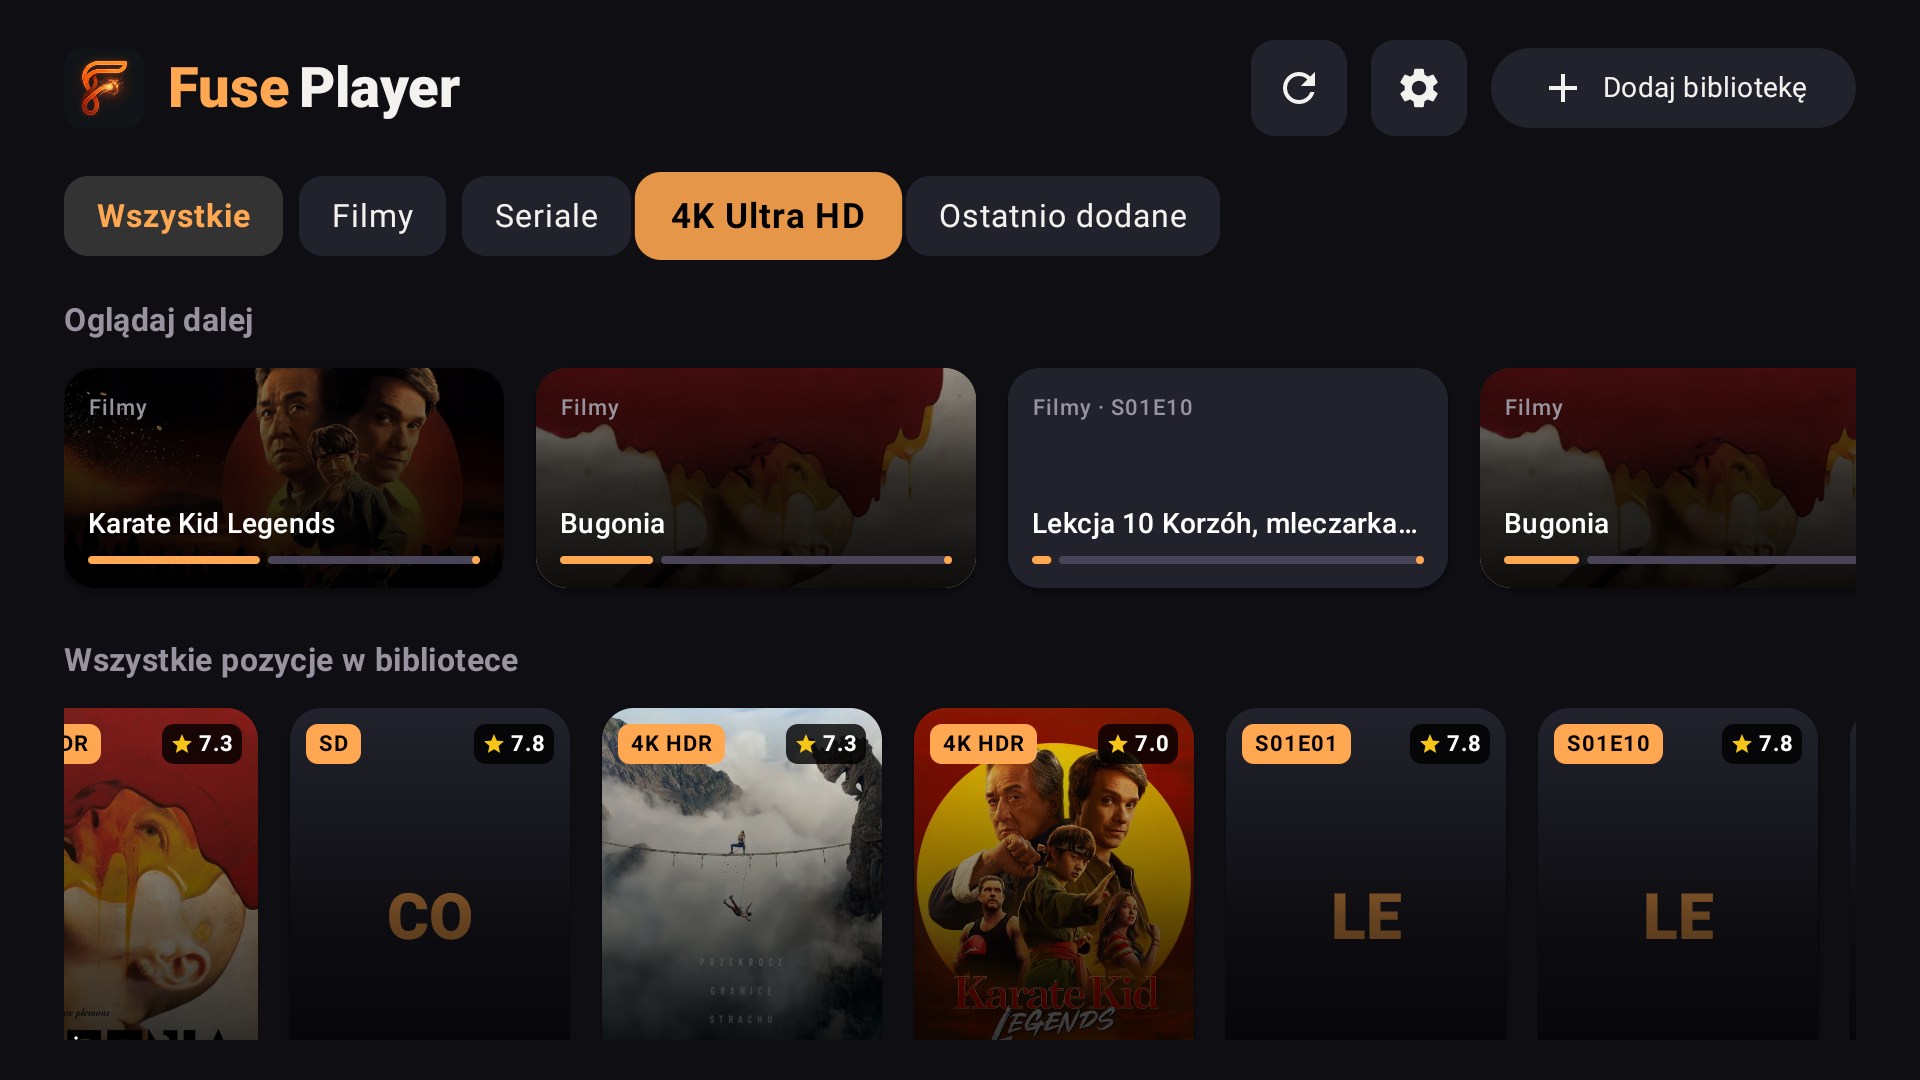
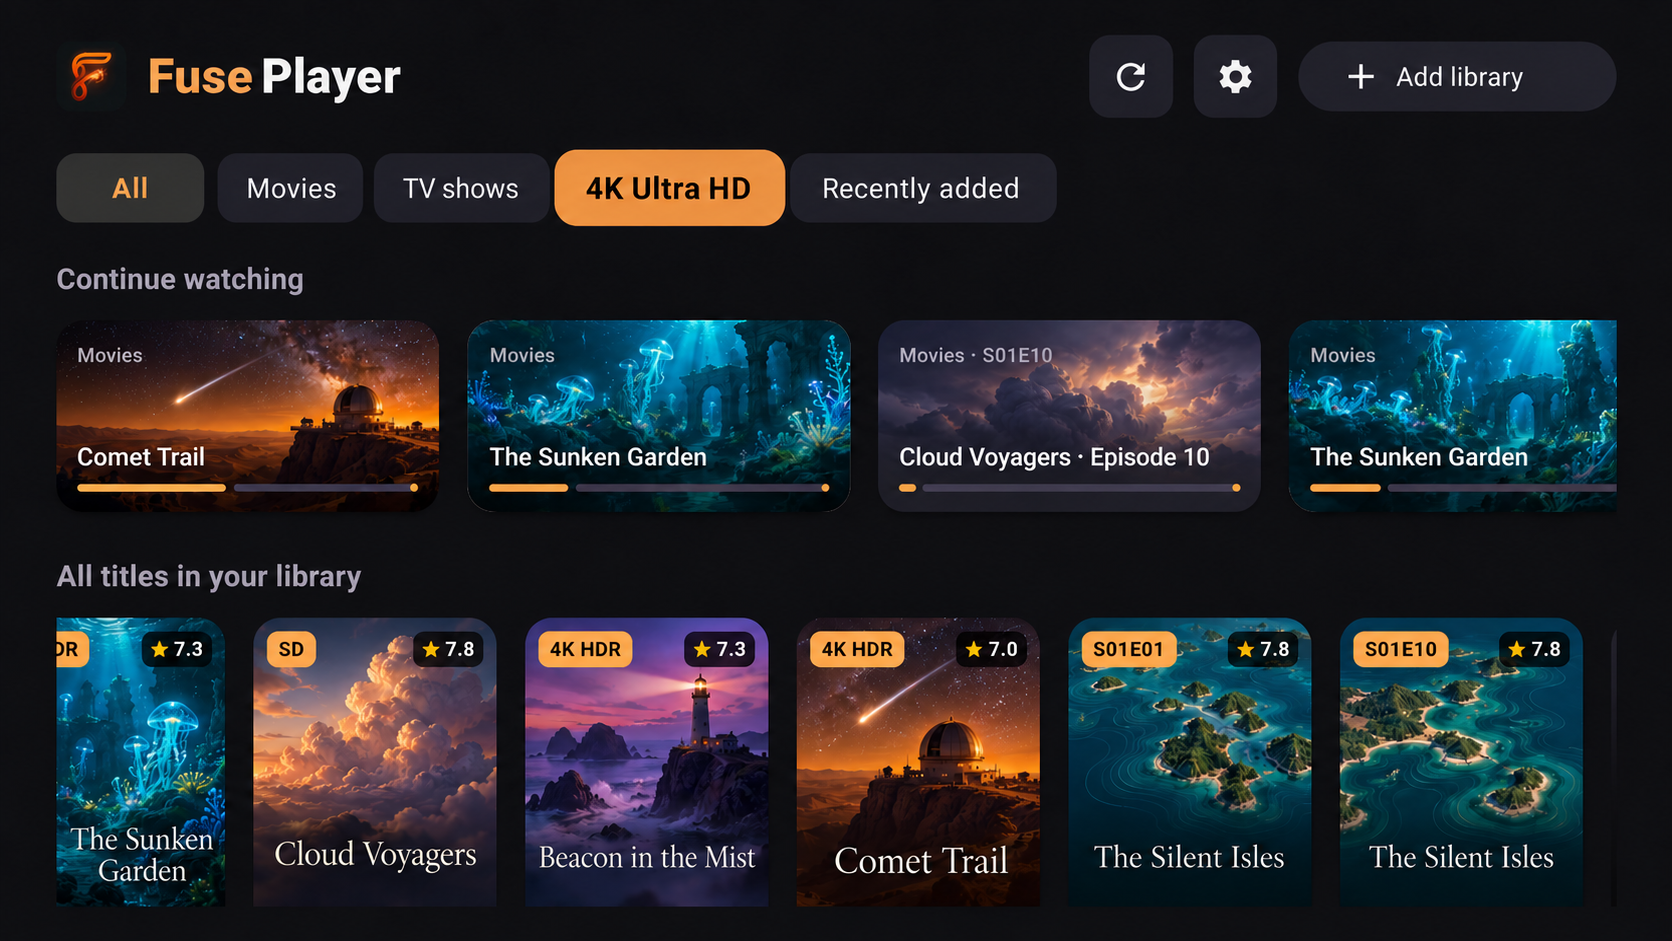
Use original fictional demo films in English marketing preview

diff --git a/index.html b/index.html
@@ -1,3 +1,3 @@
 <!doctype html>
-<html lang="en"><head><meta charset="utf-8"><meta name="viewport" content="width=device-width,initial-scale=1"><meta name="description" content="FusePlayer is a video player for Android TV, Google TV, phones and tablets. Play local videos and access your FTP and SMB sources."><meta name="theme-color" content="#0e0e12"><title>Your films. Your screen. | FusePlayer</title><style>:root{color-scheme:dark;--bg:#0e0e12;--panel:#22222c;--text:#f3f5fa;--muted:#a6a3af;--accent:#ffa64b}*{box-sizing:border-box}html{scroll-behavior:smooth}body{margin:0;background:var(--bg);color:var(--text);font:17px/1.7 system-ui,-apple-system,Segoe UI,sans-serif}a{color:inherit;text-underline-offset:5px}a:focus-visible,summary:focus-visible{outline:3px solid var(--accent);outline-offset:6px}.wrap{max-width:1180px;margin:auto;padding:0 32px}header{border-bottom:1px solid #ffffff12}nav{min-height:96px;display:flex;align-items:center;justify-content:space-between;gap:24px}.brand{text-decoration:none;font-size:23px;font-weight:750;letter-spacing:-1px}.brand b{display:inline-grid;place-items:center;background:var(--accent);color:#17110b;border-radius:11px;width:38px;height:38px;margin-right:10px;font-size:19px}nav .links{display:flex;gap:28px;font-size:14px;color:var(--muted)}nav .links a{text-decoration:none}nav a:hover{color:var(--accent)}.eyebrow{text-transform:uppercase;letter-spacing:3px;font-size:12px;font-weight:700;color:var(--accent)}h1,h2,h3{line-height:1.1;letter-spacing:-.045em}h1{font-size:clamp(48px,6.2vw,82px);margin:22px 0 28px;font-weight:700}h2{font-size:clamp(32px,4vw,48px);margin:16px 0 24px}h3{font-size:23px;margin:18px 0}p{color:var(--muted)}.hero{padding:90px 0 80px;display:grid;grid-template-columns:1.05fr 1fr;gap:60px;align-items:center}.hero p{max-width:510px;font-size:19px}.accent{color:var(--accent)}.button{display:inline-block;padding:14px 23px;border-radius:8px;background:var(--accent);color:#17110b;text-decoration:none;font-size:15px;font-weight:700;margin:18px 12px 0 0}.button.secondary{background:transparent;color:var(--text);border:1px solid #ffffff35}.platforms{font-size:12px!important;letter-spacing:1px;margin-top:25px}.visual{position:relative;padding:30px 0}.screen{padding:26px;border:1px solid #536071;border-radius:18px;background:radial-gradient(ellipse at 75% 10%,#314344 0%,#161e2c 40%,#10151e 80%);box-shadow:0 35px 100px #0008;aspect-ratio:1.45}.screen-top{display:flex;justify-content:space-between;font-size:10px;letter-spacing:1.5px;color:#b7c6c6}.landscape{height:135px;margin:24px 0 18px;border-radius:9px;background:linear-gradient(160deg,transparent 45%,#1c393e 45%,#1c393e 58%,#112a32 58%),radial-gradient(circle at 75% 30%,#d3d6a7 0%,#d3d6a7 5%,transparent 5.5%),linear-gradient(145deg,#648581,#233f51);display:flex;align-items:end;padding:18px}.landscape strong{font-size:22px;line-height:1.1;letter-spacing:-1px}.source-row{display:grid;grid-template-columns:repeat(3,1fr);gap:8px}.source-row span{border:1px solid #ffffff18;border-radius:6px;padding:10px 4px;text-align:center;font-size:10px;color:#d2dddf}.play{width:44px;height:44px;border-radius:50%;background:var(--accent);color:#14200c;display:grid;place-items:center;margin-left:auto}.caption{text-align:center;font-size:11px;letter-spacing:1px;color:var(--muted);margin-top:22px}.strip{border-top:1px solid #ffffff15;border-bottom:1px solid #ffffff15;padding:25px 0;display:flex;justify-content:space-between;gap:15px;color:var(--muted);font-size:13px}.strip b{color:var(--text);font-weight:500}.section{padding:78px 0}.intro{max-width:660px}.cards{display:grid;grid-template-columns:repeat(3,1fr);gap:20px;margin-top:36px}.card{padding:30px;background:var(--panel);border:1px solid #ffffff0e;border-radius:12px}.number{color:var(--accent);font-size:13px;letter-spacing:2px}.card p{font-size:15px;margin-bottom:0}.callout{padding:44px;border:1px solid #ffffff20;border-radius:14px;background:linear-gradient(110deg,#2b211b,#19191f);display:flex;justify-content:space-between;align-items:center;gap:30px}.callout h2{margin:0;font-size:34px}.callout p{margin-bottom:0}footer{margin-top:40px;padding:32px 0;border-top:1px solid #ffffff12;color:var(--muted);font-size:13px}.footer-row{display:flex;justify-content:space-between;gap:20px}.footer-row a{margin-left:20px}.document{max-width:800px;padding:70px 0}.document h1{font-size:clamp(42px,6vw,64px)}.document h2{font-size:28px;margin-top:42px}.document li{color:var(--muted);margin-bottom:10px}.notice{border-left:3px solid var(--accent);background:var(--panel);padding:22px 26px;margin:30px 0}.notice p{margin:0}.email{font-size:clamp(20px,4vw,32px);color:var(--accent);overflow-wrap:anywhere}details{padding:22px 0;border-bottom:1px solid #ffffff20}summary{font-weight:600;cursor:pointer}details p{font-size:16px}.skip{position:absolute;left:-9999px}.skip:focus{left:20px;top:10px;background:var(--accent);color:#000;padding:8px;z-index:10}@media(max-width:800px){.hero{grid-template-columns:1fr;padding:56px 0;gap:22px}.hero p{font-size:17px}.visual{max-width:520px;width:100%;margin:auto}.cards{grid-template-columns:1fr}.strip{flex-wrap:wrap}.callout{display:block;padding:28px}.section{padding:50px 0}.wrap{padding:0 22px}nav{min-height:80px;gap:14px}.brand{font-size:19px}nav .links{gap:16px;font-size:12px}.brand b{width:30px;height:30px;margin-right:6px}.footer-row{flex-direction:column}.footer-row a{margin:0 20px 0 0}.document{padding:45px 0}}@media(prefers-reduced-motion:reduce){html{scroll-behavior:auto}}.brand{display:flex;align-items:center;gap:12px}.brand img{border-radius:11px}.brand em{font-style:normal;color:var(--accent)}.app-preview{display:block;width:100%;height:auto;border-radius:12px;border:1px solid #ffffff20;box-shadow:0 24px 90px #0009}.visual{padding:18px 0}.hero{grid-template-columns:.85fr 1.2fr;gap:44px}.caption{font-size:11px}@media(max-width:800px){.hero{grid-template-columns:1fr}.brand{gap:7px}.brand img{width:32px;height:32px}.visual{max-width:650px}}@media(min-width:1100px){.hero h1{font-size:72px}}</style></head><body><a class="skip" href="#main">Skip to content</a><header><nav class="wrap" aria-label="Main navigation"><a class="brand" href="./"><img src="fuse-player-icon.png" alt="" width="42" height="42"><span><em>Fuse</em> Player</span></a><div class="links"><a href="./#features">Features</a><a href="support.html">Support</a><a href="privacy.html">Privacy</a></div></nav></header><main id="main" class="wrap"><section class="hero"><div><span class="eyebrow">Your media. Centre stage.</span><h1>Big screen.<br>Your films.<br><span class="accent">Fuse</span> Player.</h1><p>A home for your own videos. Made for Android TV and Google TV, with playback on your Android phone and tablet, too.</p><a class="button" href="#features">Explore FusePlayer ↗</a><a class="button secondary" href="support.html">Get support</a><p class="platforms">ANDROID TV / GOOGLE TV / PHONE / TABLET</p></div><div class="visual"><a href="fuse-player-tv.png" aria-label="View full-size Fuse Player screenshot"><img class="app-preview" src="fuse-player-tv.png" alt="Fuse Player on Android TV: dark media library with orange highlights, continue watching and video posters" width="1920" height="1080" fetchpriority="high"></a><div class="caption">FUSE PLAYER ON ANDROID TV · ACTUAL APP SCREENSHOT</div></div></section><div class="strip"><span><b>TV first.</b> Made for your living room.</span><span><b>Your sources.</b> Local files, FTP &amp; SMB.</span><span><b>More screens.</b> Android phones &amp; tablets.</span></div><section class="section" id="features"><div class="intro"><span class="eyebrow">One player. Your collection.</span><h2>Bring your videos<br>to the screen that matters.</h2><p>From files on your device to your network media collection, FusePlayer puts your own content at the heart of playback.</p></div><div class="cards"><article class="card"><span class="number">01 / THE LIVING ROOM</span><h3>Android TV &amp; Google TV</h3><p>Settle in and enjoy your videos on the big screen. Television is at the centre of the FusePlayer experience.</p></article><article class="card"><span class="number">02 / YOUR SOURCES</span><h3>Local. FTP. SMB.</h3><p>Play local video files or access media from your configured FTP servers and SMB network shares.</p></article><article class="card"><span class="number">03 / BEYOND THE TV</span><h3>Phone &amp; tablet, too.</h3><p>Use FusePlayer on Android phones and tablets when a smaller screen fits the moment.</p></article></div></section><section class="callout"><div><span class="eyebrow">Here to help</span><h2>Let’s keep your films playing.</h2><p>Questions, playback issues or feedback? Contact FrostCode.</p></div><a class="button" href="support.html">Visit support ↗</a></section><section class="section intro"><span class="eyebrow">About FusePlayer</span><p>FusePlayer is a media player by FrostCode. You provide the videos and network sources you want to play. For information about saved credentials and external integrations, see our <a href="privacy.html">privacy information and policy review status</a>.</p></section></main><footer><div class="wrap footer-row"><span>© 2026 FrostCode · FusePlayer</span><span><a href="support.html">Support</a><a href="privacy.html">Privacy information</a></span></div></footer></body></html>
+<html lang="en"><head><meta charset="utf-8"><meta name="viewport" content="width=device-width,initial-scale=1"><meta name="description" content="FusePlayer is a video player for Android TV, Google TV, phones and tablets. Play local videos and access your FTP and SMB sources."><meta name="theme-color" content="#0e0e12"><title>Your films. Your screen. | FusePlayer</title><style>:root{color-scheme:dark;--bg:#0e0e12;--panel:#22222c;--text:#f3f5fa;--muted:#a6a3af;--accent:#ffa64b}*{box-sizing:border-box}html{scroll-behavior:smooth}body{margin:0;background:var(--bg);color:var(--text);font:17px/1.7 system-ui,-apple-system,Segoe UI,sans-serif}a{color:inherit;text-underline-offset:5px}a:focus-visible,summary:focus-visible{outline:3px solid var(--accent);outline-offset:6px}.wrap{max-width:1180px;margin:auto;padding:0 32px}header{border-bottom:1px solid #ffffff12}nav{min-height:96px;display:flex;align-items:center;justify-content:space-between;gap:24px}.brand{text-decoration:none;font-size:23px;font-weight:750;letter-spacing:-1px}.brand b{display:inline-grid;place-items:center;background:var(--accent);color:#17110b;border-radius:11px;width:38px;height:38px;margin-right:10px;font-size:19px}nav .links{display:flex;gap:28px;font-size:14px;color:var(--muted)}nav .links a{text-decoration:none}nav a:hover{color:var(--accent)}.eyebrow{text-transform:uppercase;letter-spacing:3px;font-size:12px;font-weight:700;color:var(--accent)}h1,h2,h3{line-height:1.1;letter-spacing:-.045em}h1{font-size:clamp(48px,6.2vw,82px);margin:22px 0 28px;font-weight:700}h2{font-size:clamp(32px,4vw,48px);margin:16px 0 24px}h3{font-size:23px;margin:18px 0}p{color:var(--muted)}.hero{padding:90px 0 80px;display:grid;grid-template-columns:1.05fr 1fr;gap:60px;align-items:center}.hero p{max-width:510px;font-size:19px}.accent{color:var(--accent)}.button{display:inline-block;padding:14px 23px;border-radius:8px;background:var(--accent);color:#17110b;text-decoration:none;font-size:15px;font-weight:700;margin:18px 12px 0 0}.button.secondary{background:transparent;color:var(--text);border:1px solid #ffffff35}.platforms{font-size:12px!important;letter-spacing:1px;margin-top:25px}.visual{position:relative;padding:30px 0}.screen{padding:26px;border:1px solid #536071;border-radius:18px;background:radial-gradient(ellipse at 75% 10%,#314344 0%,#161e2c 40%,#10151e 80%);box-shadow:0 35px 100px #0008;aspect-ratio:1.45}.screen-top{display:flex;justify-content:space-between;font-size:10px;letter-spacing:1.5px;color:#b7c6c6}.landscape{height:135px;margin:24px 0 18px;border-radius:9px;background:linear-gradient(160deg,transparent 45%,#1c393e 45%,#1c393e 58%,#112a32 58%),radial-gradient(circle at 75% 30%,#d3d6a7 0%,#d3d6a7 5%,transparent 5.5%),linear-gradient(145deg,#648581,#233f51);display:flex;align-items:end;padding:18px}.landscape strong{font-size:22px;line-height:1.1;letter-spacing:-1px}.source-row{display:grid;grid-template-columns:repeat(3,1fr);gap:8px}.source-row span{border:1px solid #ffffff18;border-radius:6px;padding:10px 4px;text-align:center;font-size:10px;color:#d2dddf}.play{width:44px;height:44px;border-radius:50%;background:var(--accent);color:#14200c;display:grid;place-items:center;margin-left:auto}.caption{text-align:center;font-size:11px;letter-spacing:1px;color:var(--muted);margin-top:22px}.strip{border-top:1px solid #ffffff15;border-bottom:1px solid #ffffff15;padding:25px 0;display:flex;justify-content:space-between;gap:15px;color:var(--muted);font-size:13px}.strip b{color:var(--text);font-weight:500}.section{padding:78px 0}.intro{max-width:660px}.cards{display:grid;grid-template-columns:repeat(3,1fr);gap:20px;margin-top:36px}.card{padding:30px;background:var(--panel);border:1px solid #ffffff0e;border-radius:12px}.number{color:var(--accent);font-size:13px;letter-spacing:2px}.card p{font-size:15px;margin-bottom:0}.callout{padding:44px;border:1px solid #ffffff20;border-radius:14px;background:linear-gradient(110deg,#2b211b,#19191f);display:flex;justify-content:space-between;align-items:center;gap:30px}.callout h2{margin:0;font-size:34px}.callout p{margin-bottom:0}footer{margin-top:40px;padding:32px 0;border-top:1px solid #ffffff12;color:var(--muted);font-size:13px}.footer-row{display:flex;justify-content:space-between;gap:20px}.footer-row a{margin-left:20px}.document{max-width:800px;padding:70px 0}.document h1{font-size:clamp(42px,6vw,64px)}.document h2{font-size:28px;margin-top:42px}.document li{color:var(--muted);margin-bottom:10px}.notice{border-left:3px solid var(--accent);background:var(--panel);padding:22px 26px;margin:30px 0}.notice p{margin:0}.email{font-size:clamp(20px,4vw,32px);color:var(--accent);overflow-wrap:anywhere}details{padding:22px 0;border-bottom:1px solid #ffffff20}summary{font-weight:600;cursor:pointer}details p{font-size:16px}.skip{position:absolute;left:-9999px}.skip:focus{left:20px;top:10px;background:var(--accent);color:#000;padding:8px;z-index:10}@media(max-width:800px){.hero{grid-template-columns:1fr;padding:56px 0;gap:22px}.hero p{font-size:17px}.visual{max-width:520px;width:100%;margin:auto}.cards{grid-template-columns:1fr}.strip{flex-wrap:wrap}.callout{display:block;padding:28px}.section{padding:50px 0}.wrap{padding:0 22px}nav{min-height:80px;gap:14px}.brand{font-size:19px}nav .links{gap:16px;font-size:12px}.brand b{width:30px;height:30px;margin-right:6px}.footer-row{flex-direction:column}.footer-row a{margin:0 20px 0 0}.document{padding:45px 0}}@media(prefers-reduced-motion:reduce){html{scroll-behavior:auto}}.brand{display:flex;align-items:center;gap:12px}.brand img{border-radius:11px}.brand em{font-style:normal;color:var(--accent)}.app-preview{display:block;width:100%;height:auto;border-radius:12px;border:1px solid #ffffff20;box-shadow:0 24px 90px #0009}.visual{padding:18px 0}.hero{grid-template-columns:.85fr 1.2fr;gap:44px}.caption{font-size:11px}@media(max-width:800px){.hero{grid-template-columns:1fr}.brand{gap:7px}.brand img{width:32px;height:32px}.visual{max-width:650px}}@media(min-width:1100px){.hero h1{font-size:72px}}</style></head><body><a class="skip" href="#main">Skip to content</a><header><nav class="wrap" aria-label="Main navigation"><a class="brand" href="./"><img src="fuse-player-icon.png" alt="" width="42" height="42"><span><em>Fuse</em> Player</span></a><div class="links"><a href="./#features">Features</a><a href="support.html">Support</a><a href="privacy.html">Privacy</a></div></nav></header><main id="main" class="wrap"><section class="hero"><div><span class="eyebrow">Your media. Centre stage.</span><h1>Big screen.<br>Your films.<br><span class="accent">Fuse</span> Player.</h1><p>A home for your own videos. Made for Android TV and Google TV, with playback on your Android phone and tablet, too.</p><a class="button" href="#features">Explore FusePlayer ↗</a><a class="button secondary" href="support.html">Get support</a><p class="platforms">ANDROID TV / GOOGLE TV / PHONE / TABLET</p></div><div class="visual"><a href="fuse-player-tv.png" aria-label="View full-size Fuse Player demo preview"><img class="app-preview" src="fuse-player-tv.png" alt="Edited Fuse Player preview with fictional demo films and original poster artwork" width="1672" height="941" fetchpriority="high"></a><div class="caption">FUSE PLAYER ON ANDROID TV · EDITED APP PREVIEW · FICTIONAL DEMO LIBRARY</div></div></section><div class="strip"><span><b>TV first.</b> Made for your living room.</span><span><b>Your sources.</b> Local files, FTP &amp; SMB.</span><span><b>More screens.</b> Android phones &amp; tablets.</span></div><section class="section" id="features"><div class="intro"><span class="eyebrow">One player. Your collection.</span><h2>Bring your videos<br>to the screen that matters.</h2><p>From files on your device to your network media collection, FusePlayer puts your own content at the heart of playback.</p></div><div class="cards"><article class="card"><span class="number">01 / THE LIVING ROOM</span><h3>Android TV &amp; Google TV</h3><p>Settle in and enjoy your videos on the big screen. Television is at the centre of the FusePlayer experience.</p></article><article class="card"><span class="number">02 / YOUR SOURCES</span><h3>Local. FTP. SMB.</h3><p>Play local video files or access media from your configured FTP servers and SMB network shares.</p></article><article class="card"><span class="number">03 / BEYOND THE TV</span><h3>Phone &amp; tablet, too.</h3><p>Use FusePlayer on Android phones and tablets when a smaller screen fits the moment.</p></article></div></section><section class="callout"><div><span class="eyebrow">Here to help</span><h2>Let’s keep your films playing.</h2><p>Questions, playback issues or feedback? Contact FrostCode.</p></div><a class="button" href="support.html">Visit support ↗</a></section><section class="section intro"><span class="eyebrow">About FusePlayer</span><p>FusePlayer is a media player by FrostCode. You provide the videos and network sources you want to play. For information about saved credentials and external integrations, see our <a href="privacy.html">privacy information and policy review status</a>.</p></section></main><footer><div class="wrap footer-row"><span>© 2026 FrostCode · FusePlayer</span><span><a href="support.html">Support</a><a href="privacy.html">Privacy information</a></span></div></footer></body></html>
 
